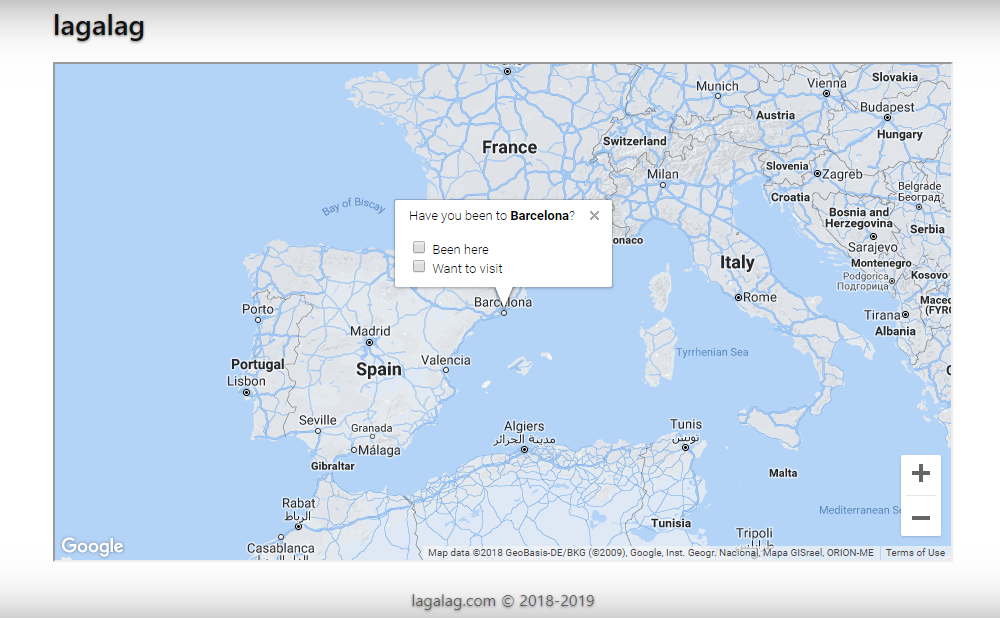
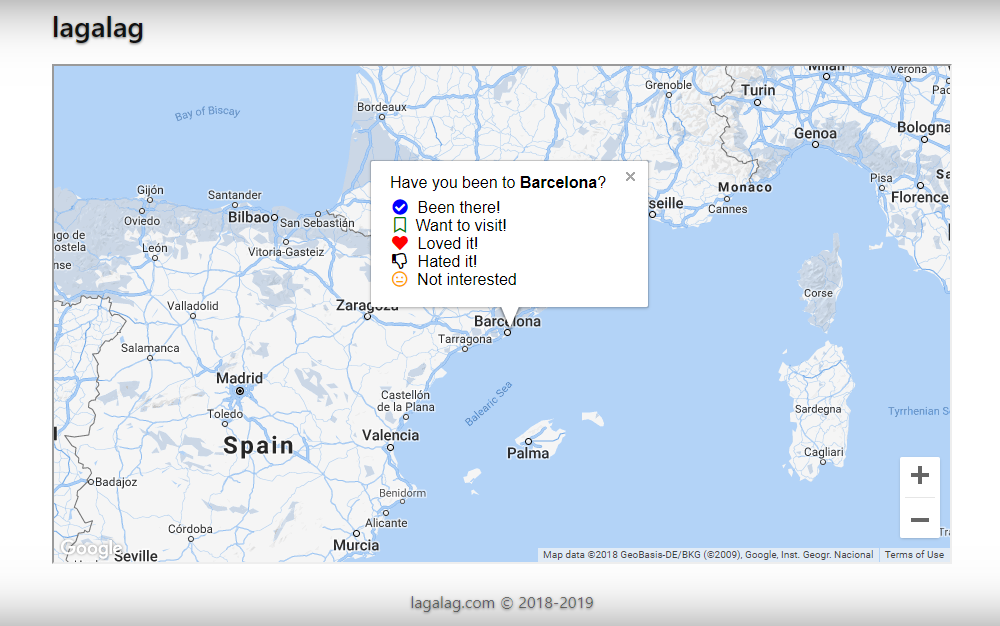
Updated screenshot

diff --git a/README.md b/README.md
@@ -1,5 +1,9 @@
 # lagalag: the web app (Spring Boot, Bootstrap, Google Maps)
 
+![screenshot](/screenshots/mainscreen.png)
+
+-> _Screenshot (as of Sep 17 2018): when clicking on the map, a popup showing the name of the closest city/town appears. Users can give their opinion about the place._ <-
+
 This project demonstrates the use of several popular web technologies to create a functional web application.
 The idea is to create a web page where users can mark the places they have visited on a world map, providing info on when they visited and for how long. From there stats and interesting info can be generated (e.g. how many countries have I visited, where did I go in 2015, when did I travel to Siem Reap, etc). Think TripAdvisor's "Cities I've Visited" app but with more cool stuff!
   
@@ -17,7 +21,4 @@ After that, it's the typical maven song-and-dance:
 
 and then pointing your browser to `<server-host>:8080`.
 
-Screenshot (as of Sep 15 2018): when clicking on the map, a popup showing the name of the closest city/town appears:
-
-![screenshot](/screenshots/mainscreen.png)
 
